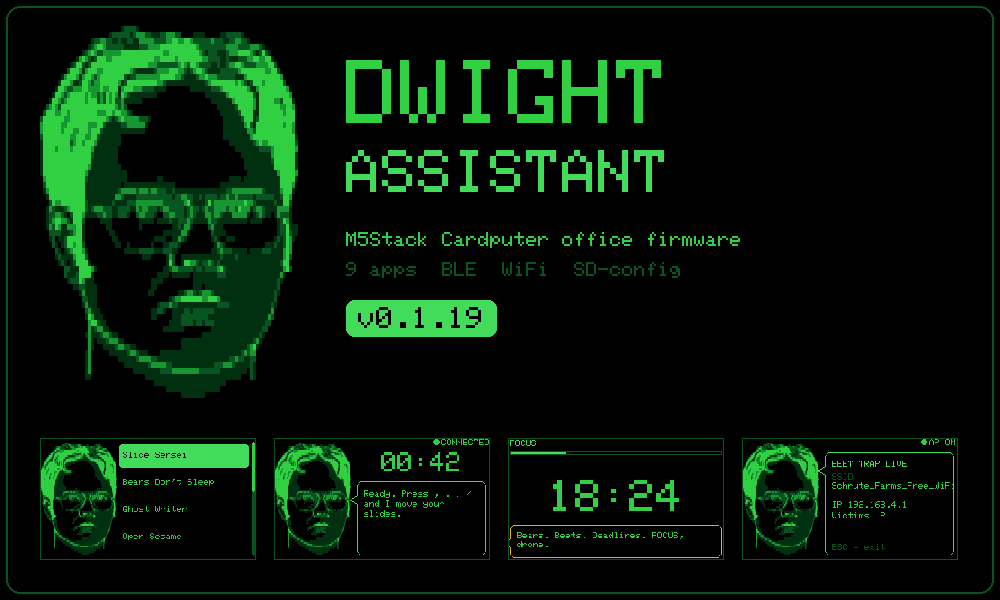
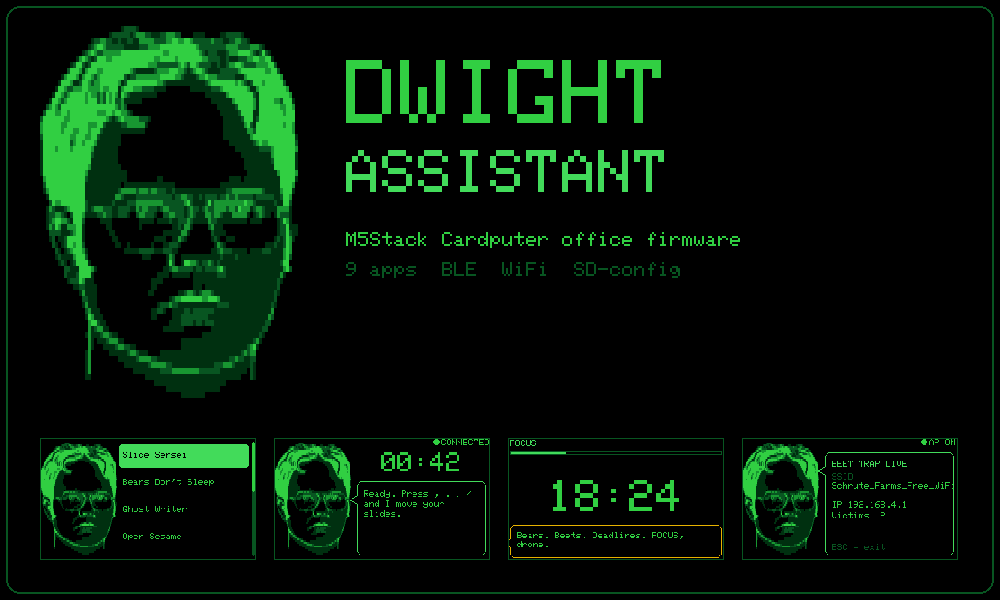
docs: drop version pill from M5Burner cover

Changed region(s): [[0.341, 0.48, 0.496, 0.57]]

diff --git a/tools/gen_cover.py b/tools/gen_cover.py
@@ -82,12 +82,6 @@ def main():
     draw_text(d, "M5Stack Cardputer office firmware", tx, 232, 2, fg)
     draw_text(d, "9 apps  BLE  WiFi  SD-config", tx, 262, 2, muted)
 
-    # Version pill.
-    ver = "v" + open(os.path.join(gs.ROOT, ".prompt-hub/version.md")).read().strip()
-    vw = text_w(ver, 3)
-    d.rounded_rectangle([tx, 300, tx + vw + 24, 300 + 36], radius=8, fill=gs.rgb(accent))
-    draw_text(d, ver, tx + 12, 307, 3, gs.THEME["background"])
-
     # --- Bottom filmstrip ----------------------------------------------------
     strip = ["01-menu.png", "02-slide-sensei.png", "07-back-to-work.png",
              "09-beet-farm-wifi.png"]
